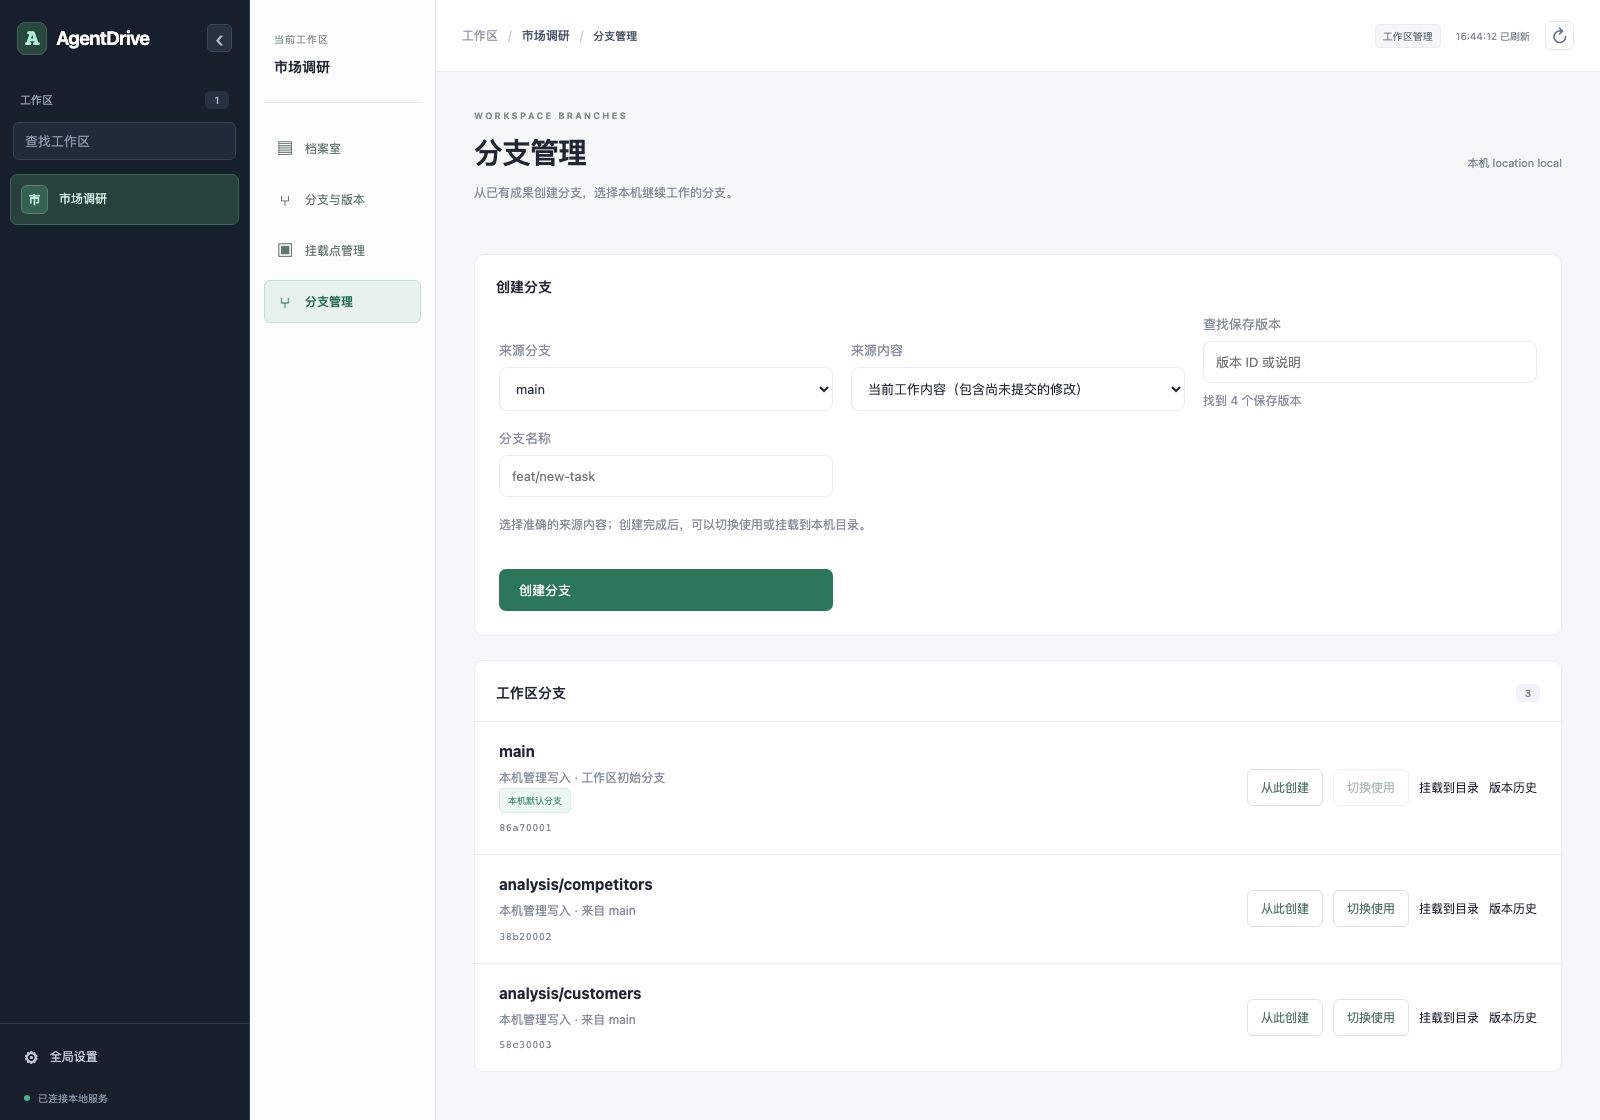
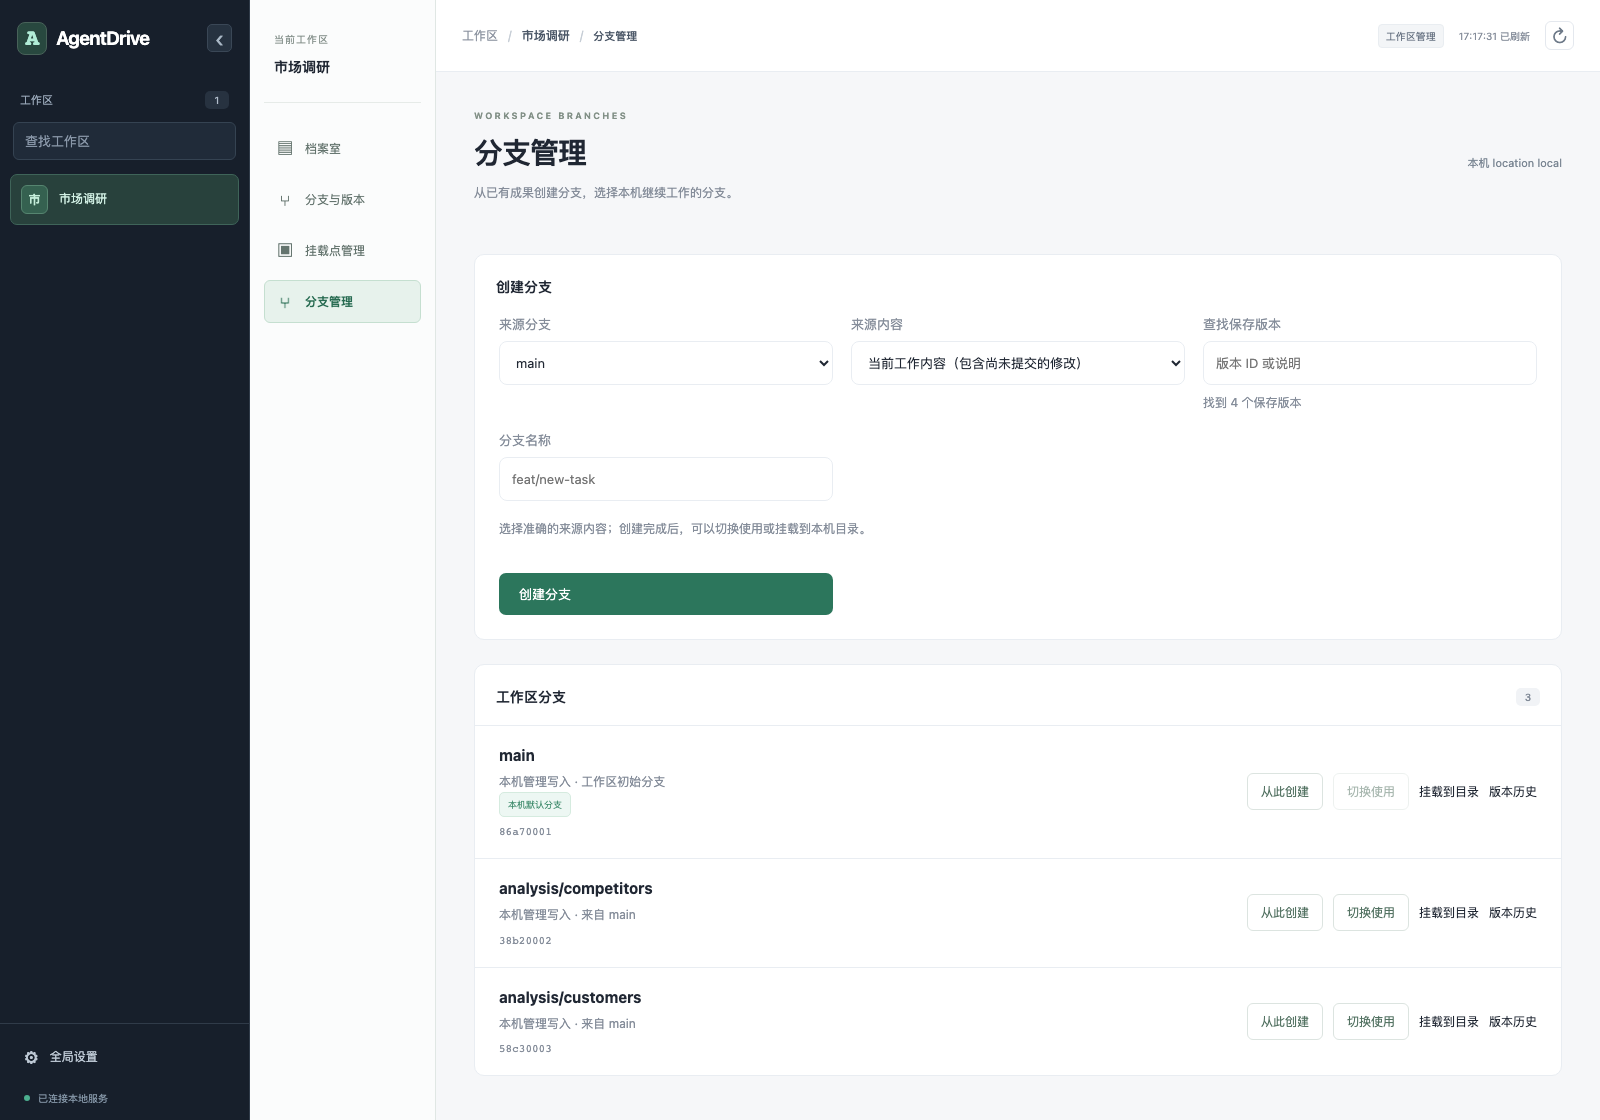
fix(dashboard): align management form fields

diff --git a/crates/agentdrive-mcp/dashboard/management.css b/crates/agentdrive-mcp/dashboard/management.css
@@ -1,9 +1,9 @@
 .management-content { display:grid; gap:24px; }
 .management-heading .location-label { white-space:normal; overflow-wrap:anywhere; }
 .management-create .panel-heading,.management-list .panel-heading { display:flex; align-items:center; gap:12px; }
-.management-form { display:grid; grid-template-columns:repeat(3,minmax(0,1fr)); gap:18px; padding:0 24px 24px; align-items:end; }
+.management-form { display:grid; grid-template-columns:repeat(3,minmax(0,1fr)); gap:18px; padding:0 24px 24px; align-items:start; }
 .management-field { display:flex; flex-direction:column; gap:8px; min-width:0; font-size:13px; color:var(--muted); }
-.management-field input,.management-field select { width:100%; min-width:0; border:1px solid var(--line); background:var(--paper); border-radius:8px; padding:12px; font:inherit; color:var(--ink); }
+.management-field input,.management-field select { width:100%; min-width:0; min-height:44px; border:1px solid var(--line); background:var(--paper); border-radius:8px; padding:12px; font:inherit; color:var(--ink); }
 .revision-source-search { min-width:0; display:grid; gap:8px; }
 .management-hint { grid-column:1 / -1; margin:0; color:var(--muted); font-size:12px; line-height:1.7; }
 .management-form .primary { justify-self:start; padding:12px 20px; }
